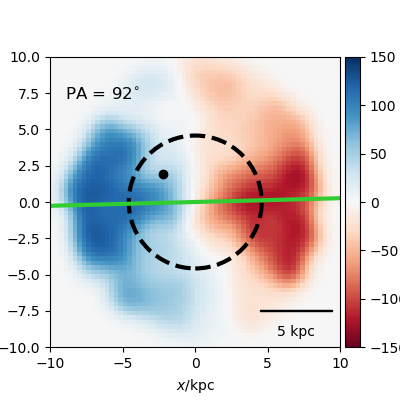
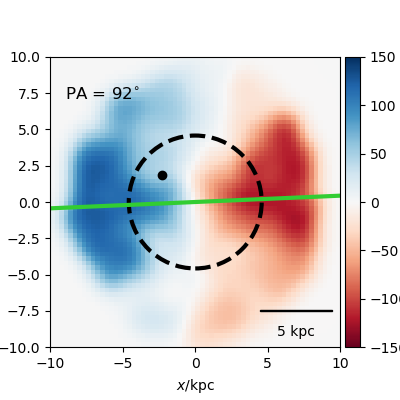
gas and star velocity

Changed region(s): [[0.12, 0.12, 0.87, 0.87], [0.6, 0.54, 0.78, 0.75]]

diff --git a/r142/galaxy142_StelVelR.py b/r142/galaxy142_StelVelR.py
@@ -11,11 +11,7 @@ filename='/mnt/data0/jillian/gguaman/r142/r142.007779.tipsy'
 redshift=0.01
 image_width=20
 
-stellar_map, stellar_pa, ax = plot_manga_map(filename, redshift, "star", weights="mass", image_width=image_width, orientation="sideon", cmap='PuOr',vmin=-150, vmax=150)
-#stellar_pa = calc_pa(stellar_map)
-#plt.colorbar(ax.images[0])
-#plt.xlabel('x/kpc')
-#plt.ylabel('y/kpc')
+stellar_map, stellar_pa, ax = plot_manga_map(filename, redshift, "star", weights="mass", image_width=image_width, orientation="sideon", cmap='PuOr', vmin=-100, vmax=100)
 
 #plt.show()
 plt.savefig("galaxy142_StelVelR.png")

diff --git a/r142/galaxy142_GasVelR.py b/r142/galaxy142_GasVelR.py
@@ -15,10 +15,6 @@ def rho_sq(particles):
     return particles['rho']**2
 
 gas_map, gas_pa, ax = plot_manga_map(filename, redshift, "gas", weights=rho_sq, image_width=image_width, orientation="sideon", cmap='RdBu', vmin=-150, vmax=150)
-#gas_pa = calc_pa(gas_map)
-#plt.colorbar(ax.images[0])
-#plt.xlabel('x/kpc')
-#plt.ylabel('y/kpc')
 
 #plt.show()
 plt.savefig("galaxy142_GasVelR.png")

diff --git a/r109/galaxy109_StelVelR.py b/r109/galaxy109_StelVelR.py
@@ -13,5 +13,5 @@ image_width=30
 
 stellar_map, stellar_pa, ax = plot_manga_map(filename, redshift, "star", weights="mass", image_width=image_width, orientation="sideon", cmap='PuOr', vmin=-150, vmax=150)
 
-plt.show()
-#plt.savefig("galaxy109_StelVelR.png")
+#plt.show()
+plt.savefig("galaxy109_StelVelR.png")

diff --git a/r429/galaxy429_StelVelR.py b/r429/galaxy429_StelVelR.py
@@ -13,5 +13,5 @@ image_width=30
 
 stellar_map, stellar_pa, ax = plot_manga_map(filename, redshift, "star", weights="mass", image_width=image_width, orientation="sideon", cmap='PuOr', vmin=-70, vmax=70)
 
-plt.show()
-#plt.savefig("galaxy429_StelVelR.png")
+#plt.show()
+plt.savefig("galaxy429_StelVelR.png")

diff --git a/r109/galaxy109_GasVelR.py b/r109/galaxy109_GasVelR.py
@@ -16,5 +16,5 @@ def rho_sq(particles):
 
 gas_map, gas_pa, ax = plot_manga_map(filename, redshift, "gas", weights=rho_sq, image_width=image_width, orientation="sideon", cmap='RdBu',vmin=-150, vmax=150)
 
-plt.show()
-#plt.savefig("galaxy109_GasVelR.png")
+#plt.show()
+plt.savefig("galaxy109_GasVelR.png")
